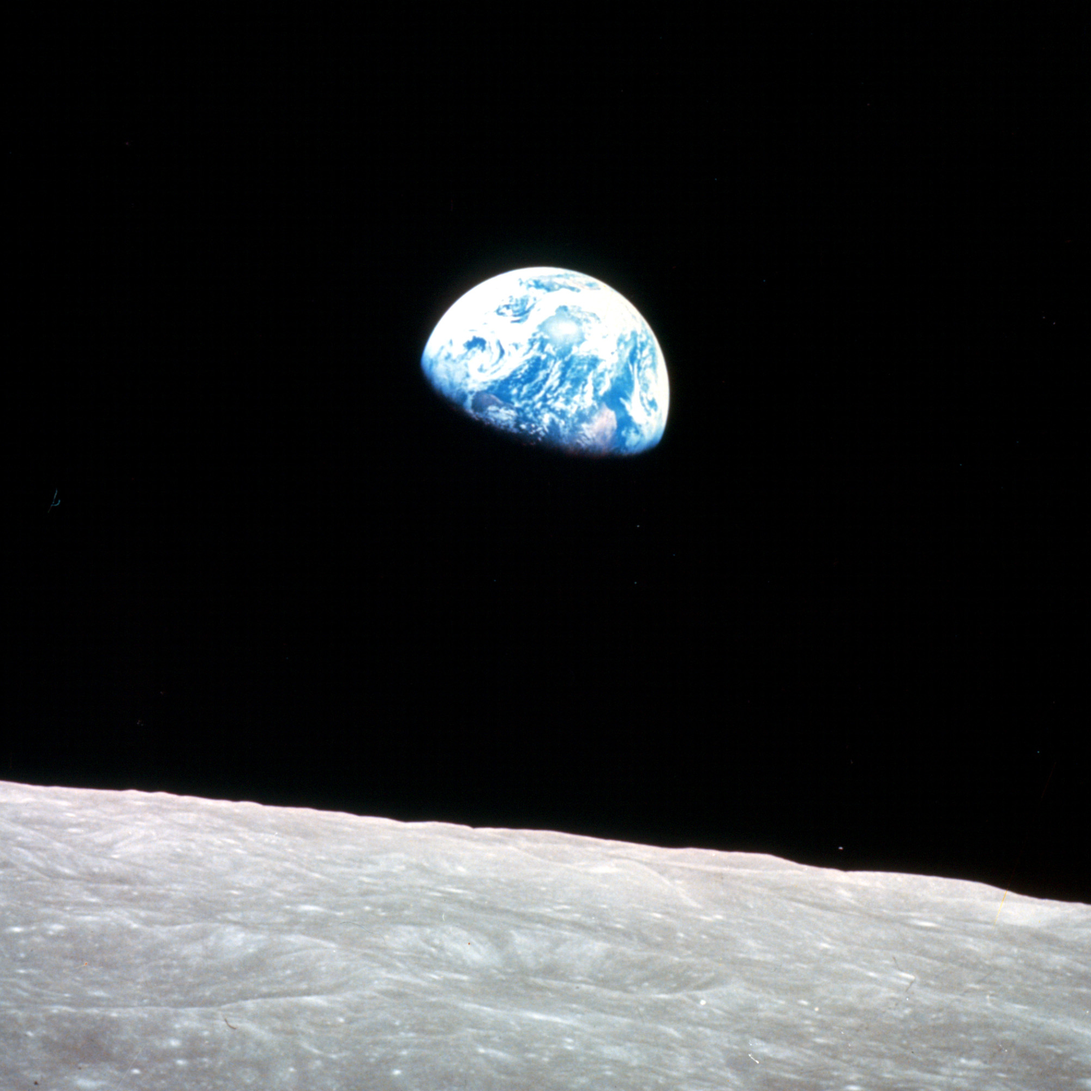
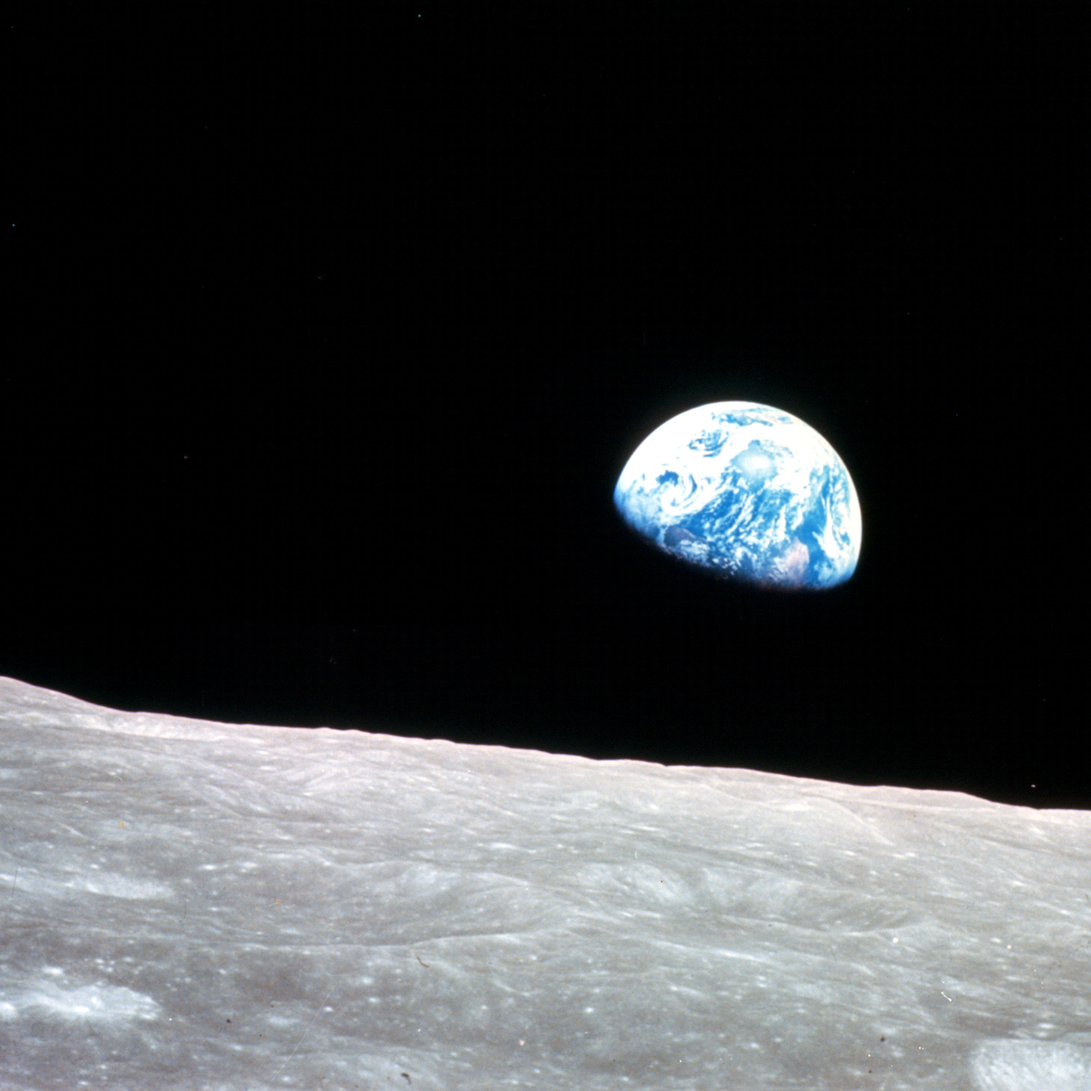
Camera arrumada

Changed region(s): [[0.0, 0.62, 1.0, 1.0], [0.372, 0.217, 0.806, 0.558]]

diff --git a/lunar_lander.cpp b/lunar_lander.cpp
@@ -75,7 +75,7 @@ void AtualizaVisualizacao(void)
     glLoadIdentity();
 
     // Especifica posição do observador e do alvo
-    gluLookAt(_nx, _ny+15, 60,   _nx, _ny, 0,   0, 1, 0);
+    gluLookAt(_nx, 30, 80,   _nx, _ny, 0,   0, 1, 0);
 }
 
 // Função callback chamada quando o tamanho da janela é alterado 
@@ -237,18 +237,18 @@ void DesenhaMapa(void)
 void DesenhaFundo(void)
 {
     glPushMatrix();
-        glTranslatef(0, -60, -40);
+        glTranslatef(0, -80, -40);
         glEnable(GL_TEXTURE_2D); 
         glNormal3f(0,1,0);
 	    glBegin(GL_QUADS);		
 	        glTexCoord2f(0, 1); // canto superior esquerdo
-            glVertex3f(-125, 250, -15); // canto superior esquerdo
+            glVertex3f(-200, 400, 0); // canto superior esquerdo
             glTexCoord2f(0, 0); // canto inferior esquerdo
-            glVertex3f(-125, 0, 0); // canto inferior esquerdo
+            glVertex3f(-200, 0, 15); // canto inferior esquerdo
             glTexCoord2f(1, 0); // canto inferior direito
-            glVertex3f(125, 0, 0); // canto inferior direito
+            glVertex3f(200, 0, 15); // canto inferior direito
             glTexCoord2f(1, 1); // canto superior direito
-            glVertex3f(125, 250, -15); // canto superior direito	
+            glVertex3f(200, 400, 0); // canto superior direito	
 	    glEnd();
         glDisable(GL_TEXTURE_2D);
     glPopMatrix();
@@ -331,13 +331,13 @@ void InicializaLoaders(void) {
 
     texFundo = CarregaTextura("fundo/bg.jpg", false);
     // Seta o modo de desenho
-    SetaModoDesenho('t');	// 's' para sólido
+    SetaModoDesenho('s');	// 's' para sólido
 }
 
 void Inicializa(void)
 { 
     _nx = 0;
-    _ny = 70;
+    _ny = 80;
     camOpeningAngle=45;
     shipAngle = 0;
 
